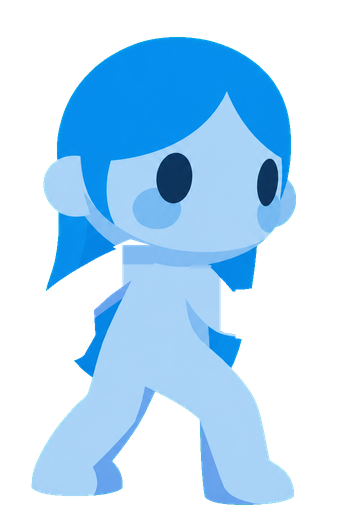
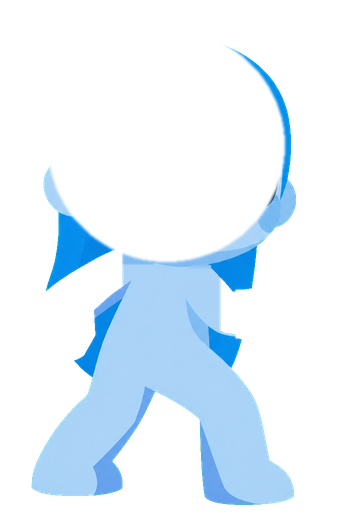
v0.21.2 (dev): arms show at rest — head split off the body so the far arm passes over the torso and under the head, arms a shade darker than the sleeve with a heavier outline, resting hands placed so both arms show

Changed region(s): [[0.1429, 0.061, 0.8286, 0.5181]]

diff --git a/mwi-battle-fx.user.js b/mwi-battle-fx.user.js
@@ -1,7 +1,7 @@
 // ==UserScript==
 // @name         牛牛动起来（开发版）
 // @namespace    mwi-battle-fx
-// @version      0.21.1
+// @version      0.21.2
 // @license      MIT
 // @description  银河奶牛放置（开发版，带动画测试、生活测试面板和录制工具）：战斗换成杀戮尖塔式侧视舞台；生活技能浮动小窗动画；公会生活试炼与迷宫生活房间专属动画。只读游戏消息，不改游戏数据；立绘从素材 CDN 加载。
 // @match        https://www.milkywayidle.com/*
@@ -6471,69 +6471,69 @@ void main(){
         // [forward, up, degrees] from where it is drawn. The sword rests pointing up and forward; + turns it back
         // (+30 straight up, +80 back over the head), - forward and down (-60 level, -110 down-forward).
         // Timing after the 2D brawlers: a very short wind-up, the blow lands in one frame, a held follow-through.
-        idle: { dur: 1400, loop: true, keys: [{ t: 0, a: { hm: [0.05, 0.08, 0], ho: [0, 0, 0] } }, { t: 700, a: { body: 2, hm: [0.05, 0.1, 4], ho: [0, 0.015, 2] }, y: -0.01 }, { t: 1400, a: { hm: [0.05, 0.08, 0], ho: [0, 0, 0] } }] },
+        idle: { dur: 1400, loop: true, keys: [{ t: 0, a: { hm: [-0.04, 0.02, 0], ho: [0.06, -0.05, 0] } }, { t: 700, a: { body: 2, hm: [-0.04, 0.04, 4], ho: [0.06, -0.035, 2] }, y: -0.01 }, { t: 1400, a: { hm: [-0.04, 0.02, 0], ho: [0.06, -0.05, 0] } }] },
         // 普攻 1: the sword snaps up behind the head and chops down in front
         attack: {
           dur: 430, hit: 150, lunge: true,
           keys: [
-            { t: 0, a: { hm: [0.05, 0.08, 0], ho: [0, 0, 0] } },
+            { t: 0, a: { hm: [-0.04, 0.02, 0], ho: [0.06, -0.05, 0] } },
             { t: 90, e: "out", a: { body: -8, hm: [0.1, 0.5, 80], ho: [0.04, 0.02, 0] }, x: -0.02 },
             { t: 150, e: "in", a: { body: 12, hm: [0.45, 0.12, -110], ho: [-0.04, 0, 0] }, x: 0.05 },
             { t: 330, a: { body: 10, hm: [0.44, 0.1, -112], ho: [-0.04, 0, 0] }, x: 0.045 },
-            { t: 430, a: { hm: [0.05, 0.08, 0], ho: [0, 0, 0] } },
+            { t: 430, a: { hm: [-0.04, 0.02, 0], ho: [0.06, -0.05, 0] } },
           ],
         },
         // 普攻 2: low in front, then a rising cut
         attack2: {
           dur: 520, hit: 220, lunge: true,
           keys: [
-            { t: 0, a: { hm: [0.05, 0.08, 0], ho: [0, 0, 0] } },
+            { t: 0, a: { hm: [-0.04, 0.02, 0], ho: [0.06, -0.05, 0] } },
             { t: 140, e: "out", a: { body: 8, hm: [0.3, -0.05, -175], ho: [0.02, -0.02, 0] }, y: -0.03 },
             { t: 220, e: "in", a: { body: -10, hm: [0.4, 0.5, 20], ho: [-0.03, 0.03, 0] }, x: 0.05, y: 0.03 },
             { t: 400, a: { body: -9, hm: [0.4, 0.48, 22], ho: [-0.03, 0.03, 0] }, x: 0.045, y: 0.02 },
-            { t: 520, a: { hm: [0.05, 0.08, 0], ho: [0, 0, 0] } },
+            { t: 520, a: { hm: [-0.04, 0.02, 0], ho: [0.06, -0.05, 0] } },
           ],
         },
         // 普攻 3: a hop and a smash down, the shield thrown forward
         attack3: {
           dur: 560, hit: 200, ring: 200, lunge: true,
           keys: [
-            { t: 0, a: { hm: [0.05, 0.08, 0], ho: [0, 0, 0] } },
+            { t: 0, a: { hm: [-0.04, 0.02, 0], ho: [0.06, -0.05, 0] } },
             { t: 100, e: "out", a: { body: -10, hm: [0.1, 0.55, 80], ho: [0.05, 0.1, 0] }, y: 0.25 },
             { t: 200, e: "in", a: { body: 22, hm: [0.5, 0.05, -120], ho: [0.1, 0, 0] }, x: 0.08 },
             { t: 420, a: { body: 20, hm: [0.49, 0.04, -121], ho: [0.1, 0, 0] }, x: 0.075 },
-            { t: 560, a: { hm: [0.05, 0.08, 0], ho: [0, 0, 0] } },
+            { t: 560, a: { hm: [-0.04, 0.02, 0], ho: [0.06, -0.05, 0] } },
           ],
         },
         // 普攻 4: a shield bash, the sword held back
         attack4: {
           dur: 600, hit: 220, lunge: true,
           keys: [
-            { t: 0, a: { hm: [0.05, 0.08, 0], ho: [0, 0, 0] } },
+            { t: 0, a: { hm: [-0.04, 0.02, 0], ho: [0.06, -0.05, 0] } },
             { t: 120, e: "out", a: { body: -6, hm: [-0.05, 0.05, 40], ho: [-0.1, 0, 0] }, x: -0.03 },
             { t: 220, e: "in", a: { body: 18, hm: [0, 0.05, 30], ho: [0.25, 0.03, 0] }, x: 0.1 },
             { t: 420, a: { body: 16, hm: [0, 0.05, 30], ho: [0.24, 0.03, 0] }, x: 0.095 },
-            { t: 600, a: { hm: [0.05, 0.08, 0], ho: [0, 0, 0] } },
+            { t: 600, a: { hm: [-0.04, 0.02, 0], ho: [0.06, -0.05, 0] } },
           ],
         },
         // 分裂斩: the blade held out level, two whole spins, a slam with a shock ring
         "skill:cleave": {
           dur: 1250, hit: 760, ring: 760, lunge: true,
           keys: [
-            { t: 0, a: { hm: [0.05, 0.08, 0], ho: [0, 0, 0] } },
+            { t: 0, a: { hm: [-0.04, 0.02, 0], ho: [0.06, -0.05, 0] } },
             { t: 220, e: "out", a: { body: -10, hm: [0.4, 0.25, -60], ho: [-0.05, 0.05, 0] }, y: -0.02 },
             { t: 300, a: { body: -6, hm: [0.45, 0.25, -60], ho: [-0.05, 0.05, 0] }, y: 0.04 },
             { t: 760, e: "linear", a: { body: -6, hm: [0.45, 0.25, -60], ho: [-0.05, 0.05, 0] }, y: 0.06, r: 720 },
             { t: 820, e: "out", a: { body: 15, hm: [0.45, 0.1, -100], ho: [0, 0, 0] }, x: 0.04, r: 720 },
             { t: 1000, a: { body: 14, hm: [0.44, 0.1, -102], ho: [0, 0, 0] }, x: 0.04, r: 720 },
-            { t: 1250, a: { hm: [0.05, 0.08, 0], ho: [0, 0, 0] }, r: 720 },
+            { t: 1250, a: { hm: [-0.04, 0.02, 0], ho: [0.06, -0.05, 0] }, r: 720 },
           ],
         },
         // 血刃斩: a storm of stabs, the last one driving through
         "skill:maim": {
           dur: 1200, hit: 800, hits: [380, 520, 660], lunge: true, color: 0xff3b3b,
           keys: [
-            { t: 0, a: { hm: [0.05, 0.08, 0], ho: [0, 0, 0] } },
+            { t: 0, a: { hm: [-0.04, 0.02, 0], ho: [0.06, -0.05, 0] } },
             { t: 220, e: "out", a: { body: -8, hm: [0.15, 0.25, -60], ho: [-0.05, 0.03, 0] }, x: -0.03 },
             { t: 380, e: "in", a: { body: 14, hm: [0.6, 0.25, -60], ho: [-0.05, 0, 0] }, x: 0.06 },
             { t: 450, a: { body: 10, hm: [0.3, 0.27, -60], ho: [-0.05, 0, 0] }, x: 0.06 },
@@ -6543,46 +6543,46 @@ void main(){
             { t: 730, a: { body: 8, hm: [0.3, 0.25, -60], ho: [-0.05, 0, 0] }, x: 0.08 },
             { t: 800, e: "in", a: { body: 18, hm: [0.7, 0.25, -60], ho: [-0.08, 0, 0] }, x: 0.12 },
             { t: 1000, a: { body: 16, hm: [0.68, 0.25, -61], ho: [-0.08, 0, 0] }, x: 0.11 },
-            { t: 1200, a: { hm: [0.05, 0.08, 0], ho: [0, 0, 0] } },
+            { t: 1200, a: { hm: [-0.04, 0.02, 0], ho: [0.06, -0.05, 0] } },
           ],
         },
         // any other damage skill: the sword raised high, held (charging), then a slam
         skill: {
           dur: 1100, hit: 650, ring: 650, lunge: true,
           keys: [
-            { t: 0, a: { hm: [0.05, 0.08, 0], ho: [0, 0, 0] } },
+            { t: 0, a: { hm: [-0.04, 0.02, 0], ho: [0.06, -0.05, 0] } },
             { t: 260, e: "out", a: { body: -8, hm: [0.1, 0.6, 30], ho: [0, 0.03, 0] }, y: 0.02 },
             { t: 560, a: { body: -9, hm: [0.1, 0.62, 32], ho: [0, 0.03, 0] }, y: 0.02 },
             { t: 650, e: "in", a: { body: 22, hm: [0.5, 0.05, -120], ho: [0.05, 0, 0] }, x: 0.08 },
             { t: 900, a: { body: 20, hm: [0.49, 0.04, -121], ho: [0.05, 0, 0] }, x: 0.075 },
-            { t: 1100, a: { hm: [0.05, 0.08, 0], ho: [0, 0, 0] } },
+            { t: 1100, a: { hm: [-0.04, 0.02, 0], ho: [0.06, -0.05, 0] } },
           ],
         },
         // the shield thrust out against the blow, knocked back a step
         hurt: {
           dur: 400,
           keys: [
-            { t: 0, a: { hm: [0.05, 0.08, 0], ho: [0, 0, 0] } },
+            { t: 0, a: { hm: [-0.04, 0.02, 0], ho: [0.06, -0.05, 0] } },
             { t: 70, e: "out", a: { body: -12, hm: [-0.08, 0.05, 30], ho: [0.1, 0.08, 10] }, x: -0.05 },
             { t: 230, a: { body: -8, hm: [-0.06, 0.06, 25], ho: [0.09, 0.07, 8] }, x: -0.04 },
-            { t: 400, a: { hm: [0.05, 0.08, 0], ho: [0, 0, 0] } },
+            { t: 400, a: { hm: [-0.04, 0.02, 0], ho: [0.06, -0.05, 0] } },
           ],
         },
         // the sword raised straight up overhead
         cast: {
           dur: 1100,
           keys: [
-            { t: 0, a: { hm: [0.05, 0.08, 0], ho: [0, 0, 0] } },
+            { t: 0, a: { hm: [-0.04, 0.02, 0], ho: [0.06, -0.05, 0] } },
             { t: 280, e: "out", a: { hm: [0.1, 0.62, 30], ho: [0, 0.02, 0] }, y: 0.03 },
             { t: 800, a: { hm: [0.1, 0.63, 30], ho: [0, 0.02, 0] }, y: 0.03 },
-            { t: 1100, a: { hm: [0.05, 0.08, 0], ho: [0, 0, 0] } },
+            { t: 1100, a: { hm: [-0.04, 0.02, 0], ho: [0.06, -0.05, 0] } },
           ],
         },
         // falls on the back; the sword ends planted upright beside the body, the shield on the ground
         dead: {
           dur: 650,
           keys: [
-            { t: 0, a: { hm: [0.05, 0.08, 0], ho: [0, 0, 0] } },
+            { t: 0, a: { hm: [-0.04, 0.02, 0], ho: [0.06, -0.05, 0] } },
             { t: 200, a: { body: -25, hm: [-0.1, 0.1, 20], ho: [-0.05, 0.05, 20] } },
             { t: 650, e: "in", a: { body: -84, hm: [-0.25, -0.25, 30], ho: [-0.55, -0.2, -90] } },
           ],
@@ -7059,12 +7059,13 @@ void main(){
           const side = ux >= 0 ? 1 : -1
           E = { x: S.x + ux * along - uy * off * side, y: S.y + uy * along + ux * off * side }
         }
+        // a shade darker than the sleeve on the body (the far arm darker still) so an arm reads against the torso
         const col = R.def.armColor
-        const dark = arm.z < 1
+        const shade = arm.hand === "hm" ? 0xb0b0b0 : 0xd0d0d0
         const w = arm.width[0]
         g.clear()
-        g.moveTo(S.x, S.y).lineTo(E.x, E.y).lineTo(W.x, W.y).stroke({ width: w + 5, color: col.line, cap: "round", join: "round" })
-        g.moveTo(S.x, S.y).lineTo(E.x, E.y).lineTo(W.x, W.y).stroke({ width: w, color: dark ? new P.Color(col.fill).multiply(0xd8d8d8).toNumber() : col.fill, cap: "round", join: "round" })
+        g.moveTo(S.x, S.y).lineTo(E.x, E.y).lineTo(W.x, W.y).stroke({ width: w + 7, color: new P.Color(col.line).multiply(0xb0b0b0).toNumber(), cap: "round", join: "round" })
+        g.moveTo(S.x, S.y).lineTo(E.x, E.y).lineTo(W.x, W.y).stroke({ width: w, color: new P.Color(col.fill).multiply(shade).toNumber(), cap: "round", join: "round" })
       }
     }
     let armsOn = GM_getValue("battle_fx_lab_v2", {}).arms !== false

diff --git a/tools/rig-head-player.py b/tools/rig-head-player.py
@@ -1,0 +1,22 @@
+# splits each body layer of the floating-hand rig into the torso (+ legs) and the head, so the far arm can pass between
+# them: an elliptic head mask (half-res body-box coordinates), soft-edged; hair hanging below it stays on the torso
+from PIL import Image, ImageDraw, ImageFilter
+import json, sys
+OUT='/home/xianrui/milkonomy/mwi-battle-fx/assets/rig/player/'
+HEAD=(166,145,118,116)  # centre x, y, radius x, y in the half-res body box (base_a head, chin at full-res y 660)
+for n in sys.argv[1:]:
+    body=Image.open(f'{OUT}{n}_body.webp').convert('RGBA')
+    m=Image.new('L',body.size,0); cx,cy,rx,ry=HEAD
+    ImageDraw.Draw(m).ellipse((cx-rx,cy-ry,cx+rx,cy+ry),fill=255)
+    m=m.filter(ImageFilter.GaussianBlur(1.2))
+    a=body.split()[3]
+    from PIL import ImageChops
+    head=body.copy(); head.putalpha(ImageChops.multiply(a,m))
+    torso=body.copy(); torso.putalpha(ImageChops.multiply(a,ImageChops.invert(m)))
+    head.save(f'{OUT}{n}_head.webp',lossless=True); torso.save(f'{OUT}{n}_body.webp',lossless=True)
+r=json.load(open(OUT+'rig.json'))
+b=r['parts']['body']
+r['parts']['head']={'pivot':b['pivot'],'at':b['at'],'z':2.7,'parent':'body'}
+r['arms']['armb']['z']=2
+json.dump(r,open(OUT+'rig.json','w'),indent=1)
+print(r['parts'].keys(), r['arms']['armb']['z'])
